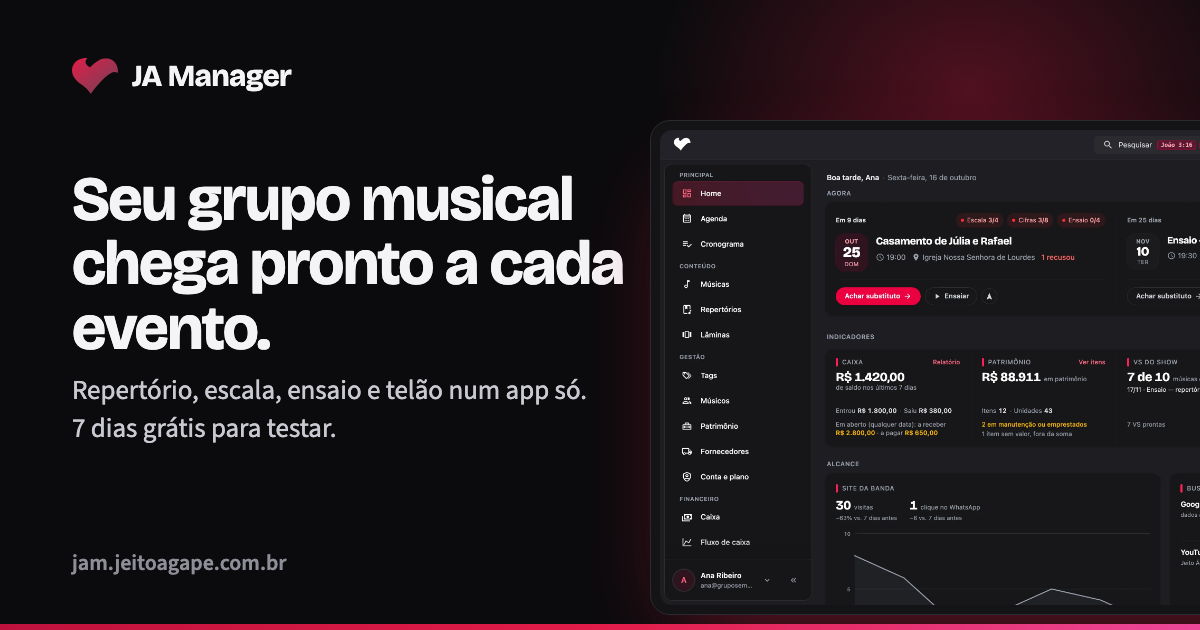
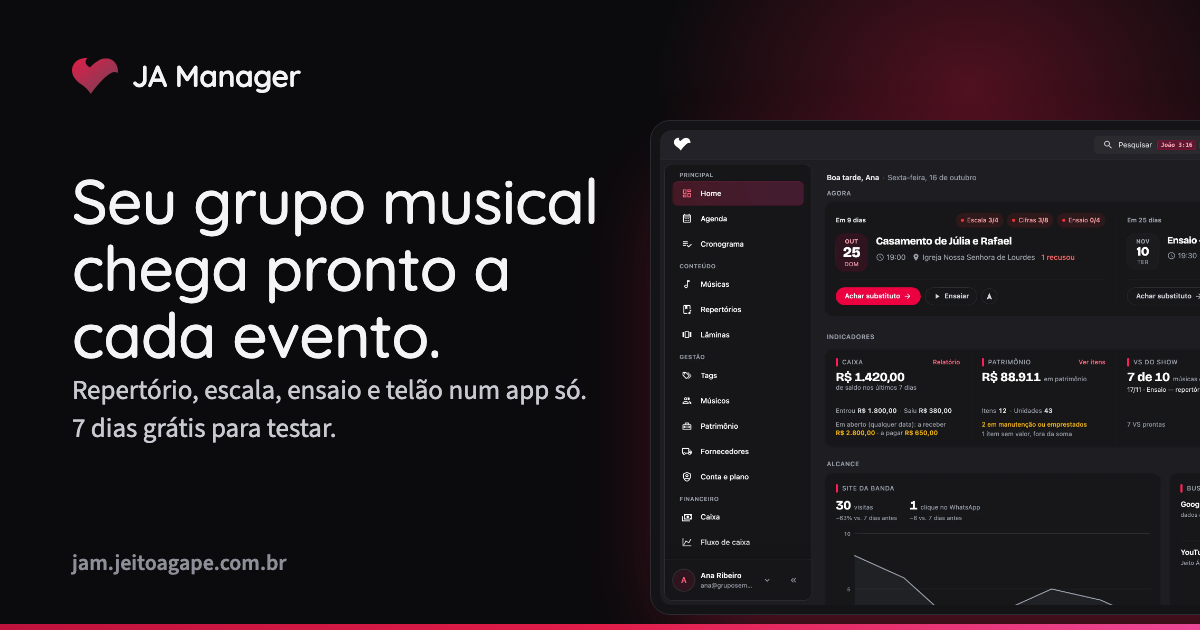
fix(landing): títulos em Quicksand 500
Escolha do dono (fonte mais arredondada, limpa e fina) no lugar da
Bricolage Grotesque: títulos, preços e o nome JA Manager. O texto
corrido continua em Source Sans 3; a imagem de compartilhamento
acompanha.

Claude-Session: https://claude.ai/code/session_01NMMKSxmG4CXbrstfzCnp3B

Changed region(s): [[0.0617, 0.2714, 0.5242, 0.573], [0.0925, 0.0905, 0.2467, 0.1508]]

diff --git a/index.html b/index.html
@@ -225,7 +225,7 @@
 <link rel="apple-touch-icon" href="assets/apple-touch-icon.png">
 <link rel="preconnect" href="https://fonts.googleapis.com">
 <link rel="preconnect" href="https://fonts.gstatic.com" crossorigin>
-<link href="https://fonts.googleapis.com/css2?family=Bricolage+Grotesque:opsz,wght@12..96,400..800&amp;family=Source+Sans+3:ital,wght@0,400..800;1,400&amp;display=swap" rel="stylesheet">
+<link href="https://fonts.googleapis.com/css2?family=Quicksand:wght@400..700&amp;family=Source+Sans+3:ital,wght@0,400..800;1,400&amp;display=swap" rel="stylesheet">
 <style>
 [hidden]{display:none!important}
 body{margin:0;background:#0B0B0D}
@@ -289,7 +289,7 @@ p,dd{text-align:justify;hyphens:auto;-webkit-hyphens:auto;text-wrap:pretty}
 </style>
 </head>
 <body>
-<div style="--f-titulo: &#x27;Bricolage Grotesque&#x27;, system-ui, sans-serif; --f-texto: &#x27;Source Sans 3&#x27;, system-ui, sans-serif; --w-titulo: 700; --ls-titulo: -0.02em; font-family: var(--f-texto); font-size-adjust: 0.5; color: #F4F4F6; background: #0B0B0D; min-width: 0; font-size: 16px; line-height: 1.6">
+<div style="--f-titulo: &#x27;Quicksand&#x27;, system-ui, sans-serif; --f-texto: &#x27;Source Sans 3&#x27;, system-ui, sans-serif; --w-titulo: 500; --ls-titulo: -0.01em; font-family: var(--f-texto); font-size-adjust: 0.5; color: #F4F4F6; background: #0B0B0D; min-width: 0; font-size: 16px; line-height: 1.6">
 
 
 <header class="topo-nav" data-topo style="position: sticky; top: 0; z-index: 20; --acc: #E11D48; --acc-t: #FF637E">

diff --git a/CLAUDE.md b/CLAUDE.md
@@ -16,7 +16,7 @@ One file: [index.html](index.html) (~140 KB) — HTML + one `<style>` in `<head>
 
 **Look:** graphite ground `#0B0B0D`, surfaces `#141416`/`#17171B`, 1 px borders `#1F1F25`/`#2A2A31`, text `#F4F4F6`/`#B4B4BE`, one accent — the app's **rose `#E11D48`** (text-on-dark tint `#FF637E`) — replacing the old dark-neon violet theme and the EQ presets (both removed). The `#obra` section is the only light surface (`#FBF7F5`).
 
-**Type (pending the team vote, 2026-11-16):** headings **Bricolage Grotesque** (the app's display face) and body **Source Sans 3**, set as CSS variables on the root `div` (`--f-titulo`, `--f-texto`, `--w-titulo`, `--ls-titulo`; `h1,h2,h3,.f-titulo` read them). Changing the pairing = those four variables + the Google Fonts `<link>`. Running text (`p`, `dd`) is **justified with hyphenation** (`hyphens: auto`, `lang="pt-BR"`), owner's request; short card texts stay left-aligned. Mono only for data (chords over lyrics, the import URL).
+**Type (owner's pick, 2026-11-16: "mais arredondada, limpa e fina"):** headings **Quicksand 500** and body **Source Sans 3**, set as CSS variables on the root `div` (`--f-titulo`, `--f-texto`, `--w-titulo`, `--ls-titulo`; `h1,h2,h3,.f-titulo` read them). Changing the pairing = those four variables + the Google Fonts `<link>`. Running text (`p`, `dd`) is **justified with hyphenation** (`hyphens: auto`, `lang="pt-BR"`), owner's request; short card texts stay left-aligned. Mono only for data (chords over lyrics, the import URL).
 
 **Brand mark:** the **same heart as the band site's favicon**, redrawn as a vector and recolored (rose fading to `#6D4458`) — inline SVG in the menu/footer; `assets/favicon.svg` (transparent, lighter gradient under `prefers-color-scheme: dark`), `assets/favicon-32.png`, `assets/apple-touch-icon.png` (on black, iOS needs a background). Never the app's symmetric heart.
 
